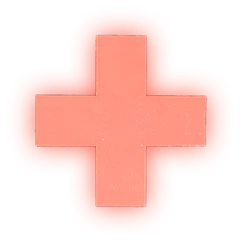
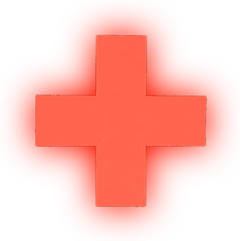
IFAK-Patch: Kreuz im IFAK-Rot, helleres Aufleuchten
- Kreuz auf das gemessene Rot der IFAK-Patches umgefärbt (Struktur bleibt)
- Leucht-Ebene heller mit größerem Schein, Aufleuchten hält etwas länger

diff --git a/src/app/preview.css b/src/app/preview.css
@@ -372,11 +372,12 @@
 }
 @keyframes patch-puls {
   0%,
-  40%,
+  45%,
   100% {
     opacity: 0;
   }
-  14% {
+  12%,
+  22% {
     opacity: 1;
   }
 }

diff --git a/scripts/patch-freistellen.py b/scripts/patch-freistellen.py
@@ -36,6 +36,19 @@ pad = round(max(bb[2] - bb[0], bb[3] - bb[1]) * 0.12)
 cut = cut.crop(bb)
 leinwand = Image.new("RGBA", (cut.width + 2 * pad, cut.height + 2 * pad), (0, 0, 0, 0))
 leinwand.paste(cut, (pad, pad))
+
+# Kreuz auf das Rot der IFAK-Patches umfärben (gemessen am IFAK-Foto ≈ 184/58/53), Struktur bleibt über die Helligkeit
+ZIELROT = np.array([210, 58, 52], np.float32)
+c0 = np.asarray(leinwand).astype(np.float32)
+rgb0, al0 = c0[..., :3], c0[..., 3]
+k0 = (rgb0[..., 0] > 110) & (rgb0[..., 0] > rgb0[..., 1] * 1.6) & (rgb0[..., 0] > rgb0[..., 2] * 1.6) & (al0 > 200)
+k0 = ndimage.binary_fill_holes(ndimage.binary_opening(k0, iterations=1))
+weich = np.asarray(Image.fromarray((k0 * 255).astype(np.uint8)).filter(ImageFilter.GaussianBlur(0.9))).astype(np.float32) / 255
+hell0 = rgb0.mean(2)
+ref = hell0[k0].mean()
+umgefaerbt = np.clip(ZIELROT[None, None, :] * (hell0 / ref)[..., None], 0, 255)
+rgb0 = rgb0 * (1 - weich[..., None]) + umgefaerbt * weich[..., None]
+leinwand = Image.fromarray(np.dstack([rgb0, al0]).astype(np.uint8), "RGBA")
 leinwand.save(ziel / "zb-patch.png")
 
 # Leucht-Ebene: nur das rote Kreuz, aufgehellt + weicher roter Schein
@@ -44,11 +57,11 @@ rgb, al = c[..., :3], c[..., 3]
 kreuz = (rgb[..., 0] > 110) & (rgb[..., 0] > rgb[..., 1] * 1.6) & (rgb[..., 0] > rgb[..., 2] * 1.6) & (al > 200)
 kreuz = ndimage.binary_fill_holes(ndimage.binary_opening(kreuz, iterations=1))
 km = Image.fromarray((kreuz * 255).astype(np.uint8)).filter(ImageFilter.GaussianBlur(0.8))
-schein = km.filter(ImageFilter.GaussianBlur(leinwand.width * 0.05))
+schein = km.filter(ImageFilter.GaussianBlur(leinwand.width * 0.07))
 k_a = np.asarray(km).astype(np.float32) / 255
-s_a = np.asarray(schein).astype(np.float32) / 255 * 0.85
-hell = np.clip(rgb * 1.2 + 30, 0, 255)
-farbe = np.array([255, 70, 45], np.float32)
+s_a = np.clip(np.asarray(schein).astype(np.float32) / 255 * 1.35, 0, 1)
+hell = np.clip(np.array([255, 92, 72], np.float32)[None, None, :] * (rgb.mean(2) / max(rgb[kreuz].mean(), 1))[..., None] * 1.1, 0, 255)
+farbe = np.array([255, 60, 40], np.float32)
 out_a = 1 - (1 - s_a) * (1 - k_a)
 out_rgb = (farbe * s_a[..., None] * (1 - k_a[..., None]) + hell * k_a[..., None]) / np.maximum(out_a[..., None], 1e-4)
 Image.fromarray(np.dstack([np.clip(out_rgb, 0, 255), out_a * 255]).astype(np.uint8), "RGBA").save(ziel / "zb-patch-glow.png")
